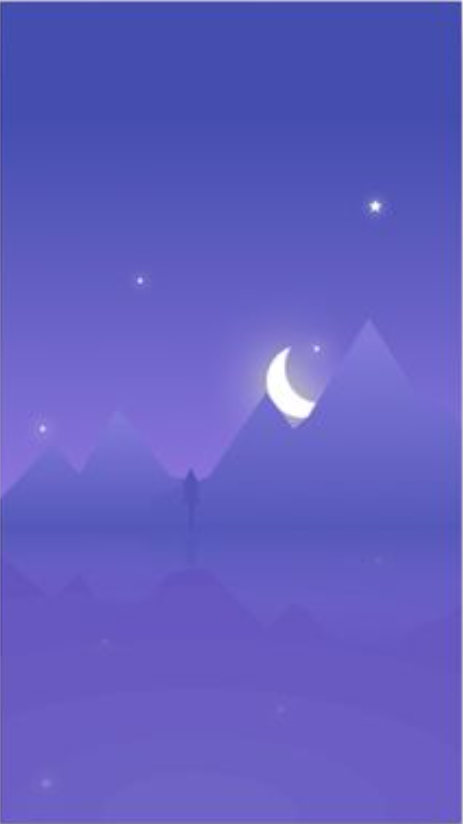
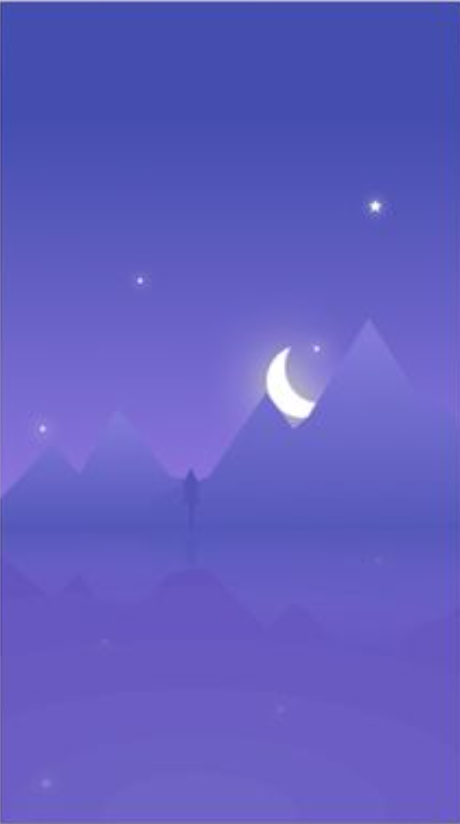
wallpaper added

diff --git a/lib/pages/weather_home.dart b/lib/pages/weather_home.dart
@@ -1,5 +1,3 @@
-
-
 import 'package:flutter/cupertino.dart';
 import 'package:flutter/material.dart';
 import 'package:provider/provider.dart';
@@ -31,7 +29,6 @@ class _WeatherHomeState extends State<WeatherHome> {
         });
       });
 
-
     });
 
     super.didChangeDependencies();
@@ -45,62 +42,68 @@ class _WeatherHomeState extends State<WeatherHome> {
       ),
       body: isLoading
           ? const Center(
-              child: CircularProgressIndicator(),
-            )
-          : Center(
-              child: Consumer<WeatherProvider>(
-                builder: (context, provider, _) => Column(
-                  children: [
-                    Text(
-                        getFormattedDate(provider.getCurrentWeatherData.dt,
-                            'EEE, dd, MMM, yyyy'),
-                        style: const TextStyle(
-                          fontSize: 30,
-                        )),
-                    Text(
-                      '${provider.getCurrentWeatherData.main.temp.round()}\u00B0C',
-                      style: const TextStyle(
-                        fontSize: 60,
-                      ),
-                    ),
-
-                    Text('feels like: ${provider.getCurrentWeatherData.main.feelsLike.round()}\u00B0C',style: const TextStyle(fontSize: 30,), ),
-                    // Text('${provider.getCurrentForecastData.list[0].weather[0].icon}',style: const TextStyle(fontSize: 30,), ),
-
-                    Text(
-                      'Location: ${provider.getCurrentWeatherData.name}, ${provider.getCurrentWeatherData.sys.country}',
+        child: CircularProgressIndicator(),
+      )
+          : Stack(children: [
+        Opacity(opacity:0.5,child: Image.asset('images/weather1.png',height: double.infinity,width:double.infinity,fit: BoxFit.cover,)),
+        Padding(
+          padding: const EdgeInsets.symmetric(vertical: 20),
+          child: Center(
+            child: Consumer<WeatherProvider>(
+              builder: (context, provider, _) => Column(
+                children: [
+                  Text(
+                      getFormattedDate(provider.getCurrentWeatherData.dt,
+                          'EEE, dd, MMM, yyyy'),
                       style: const TextStyle(
                         fontSize: 30,
-                      ),
+                      )),
+                  Text(
+                    '${provider.getCurrentWeatherData.main.temp.round()}\u00B0C',
+                    style: const TextStyle(
+                      fontSize: 60,
                     ),
-                    Row(
-                      children: [
-                        Image.network( 'https://openweathermap.org/img/wn/${provider.getCurrentWeatherData.weather[0].icon}@2x.png', width: 80,height: 80,fit: BoxFit.cover,),
-                         Text(
-                          provider.getCurrentWeatherData.weather[0].main +
-                              ', ' +
-                              provider
-                                  .getCurrentWeatherData.weather[0].description,
-                          style: const TextStyle(fontSize: 30),
-                        )
-                      ],
+                  ),
+
+                  Text('feels like: ${provider.getCurrentWeatherData.main.feelsLike.round()}\u00B0C',style: const TextStyle(fontSize: 30,), ),
+                  // Text('${provider.getCurrentForecastData.list[0].weather[0].icon}',style: const TextStyle(fontSize: 30,), ),
+
+                  Text(
+                    'Location: ${provider.getCurrentWeatherData.name}, ${provider.getCurrentWeatherData.sys.country}',
+                    style: const TextStyle(
+                      fontSize: 30,
                     ),
-                    const Spacer(),
-                    Expanded(
-                      child: ListView.builder(
-                        scrollDirection: Axis.horizontal,
-                        itemCount: provider.getCurrentForecastData.list.length,
-                        itemBuilder: (context,index)=>ForecastItem(forecastElement: provider.getCurrentForecastData.list[index]),
+                  ),
+                  Row(
+                    children: [
+                      Image.network( 'https://openweathermap.org/img/wn/${provider.getCurrentWeatherData.weather[0].icon}@2x.png', width: 80,height: 80,fit: BoxFit.cover,),
+                      Text(
+                        provider.getCurrentWeatherData.weather[0].main +
+                            ', ' +
+                            provider
+                                .getCurrentWeatherData.weather[0].description,
+                        style: const TextStyle(fontSize: 30),
+                      )
+                    ],
+                  ),
+                  const Spacer(),
+                  Expanded(
+                    child: ListView.builder(
+                      scrollDirection: Axis.horizontal,
+                      itemCount: provider.getCurrentForecastData.list.length,
+                      itemBuilder: (context,index)=>ForecastItem(forecastElement: provider.getCurrentForecastData.list[index]),
 
 
-                      ),
                     ),
+                  ),
 
 
-                  ],
-                ),
+                ],
               ),
             ),
+          ),
+        )
+      ],),
     );
   }
 }
